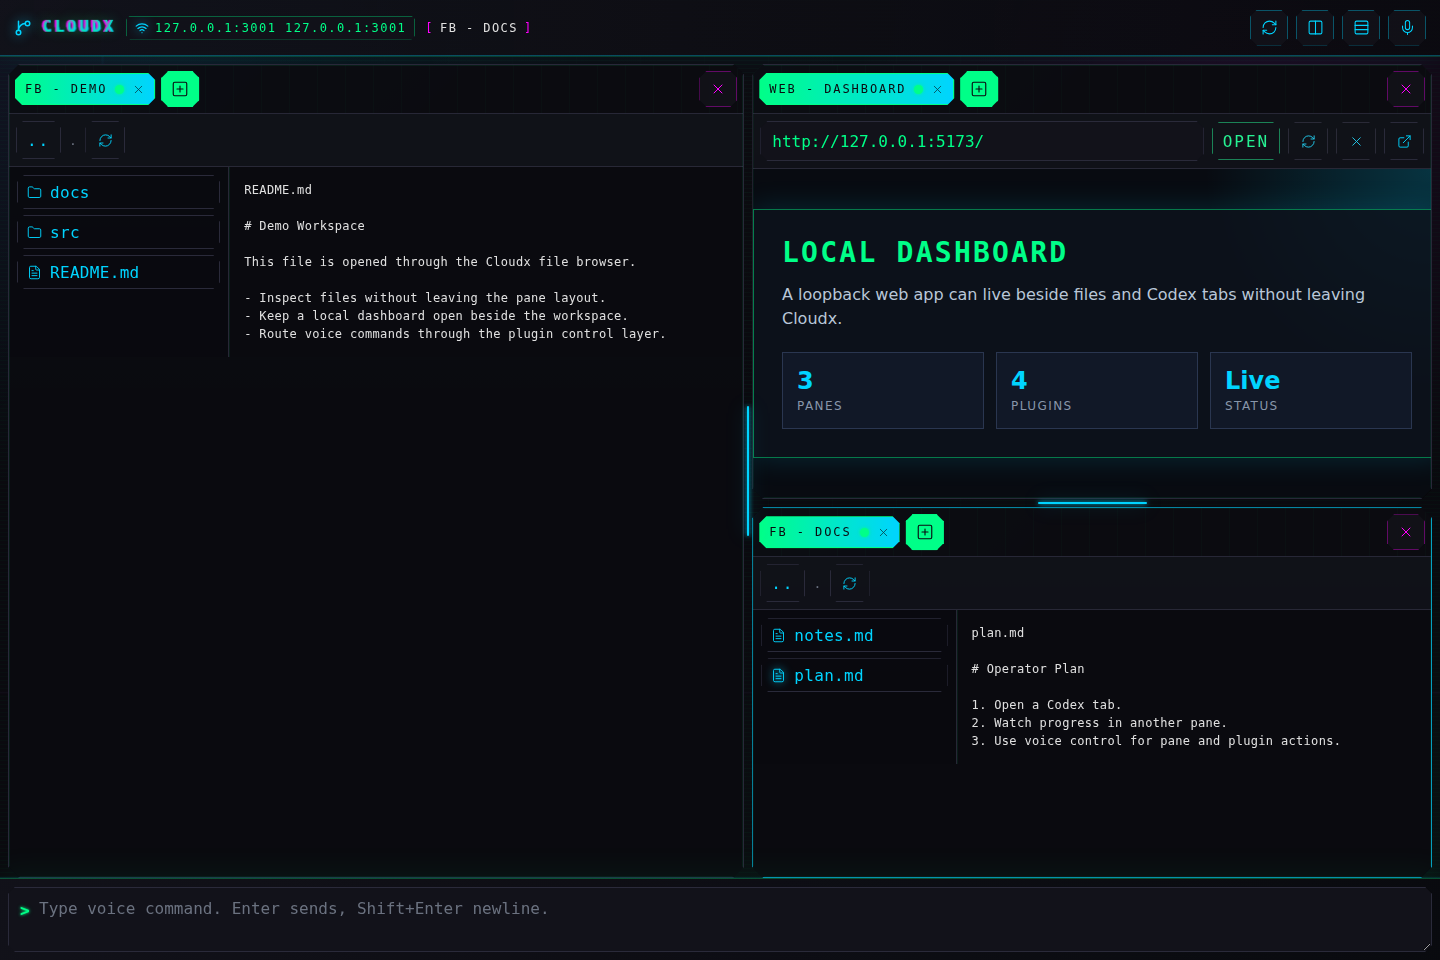
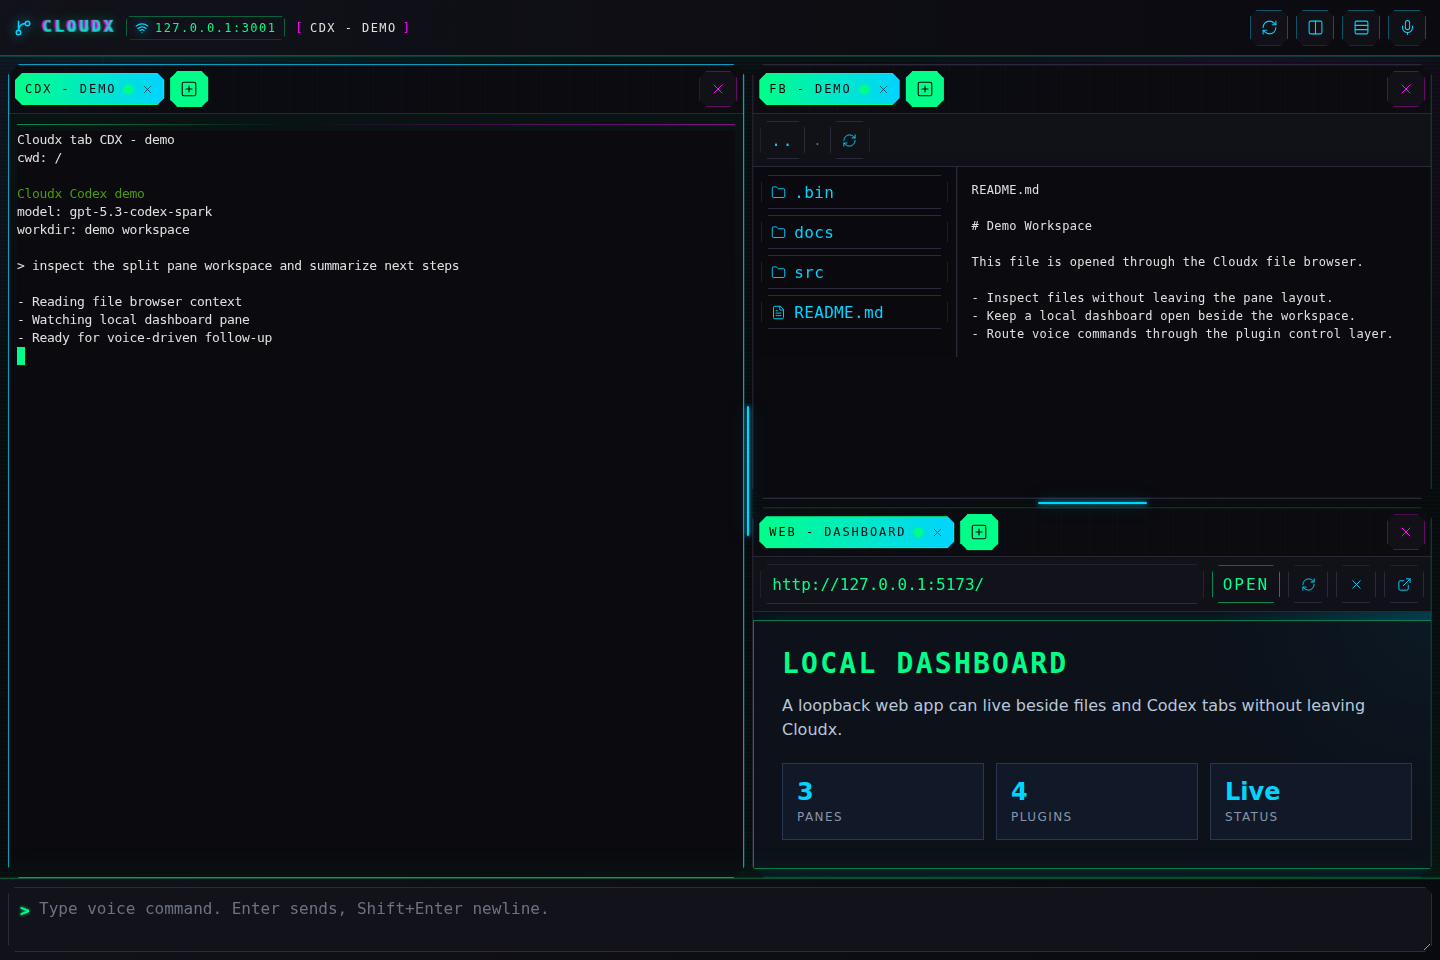
Show Codex pane in README screenshot

diff --git a/README.md b/README.md
@@ -20,9 +20,7 @@ tailnet only.
 These screenshots use a throwaway demo workspace and avoid local paths, host
 names, and dashboard tokens. Regenerate them with `npm run docs:screenshots`.
 
-![Cloudx split pane workspace showing file browser and local dashboard plugins](docs/screenshots/cloudx-split-panes.png)
-
-![Cloudx new tab dialog opened inside a multi-pane workspace](docs/screenshots/cloudx-new-tab-dialog.png)
+![Cloudx split pane workspace showing a Codex terminal, file browser, and local dashboard](docs/screenshots/cloudx-split-panes.png)
 
 ## Features
 